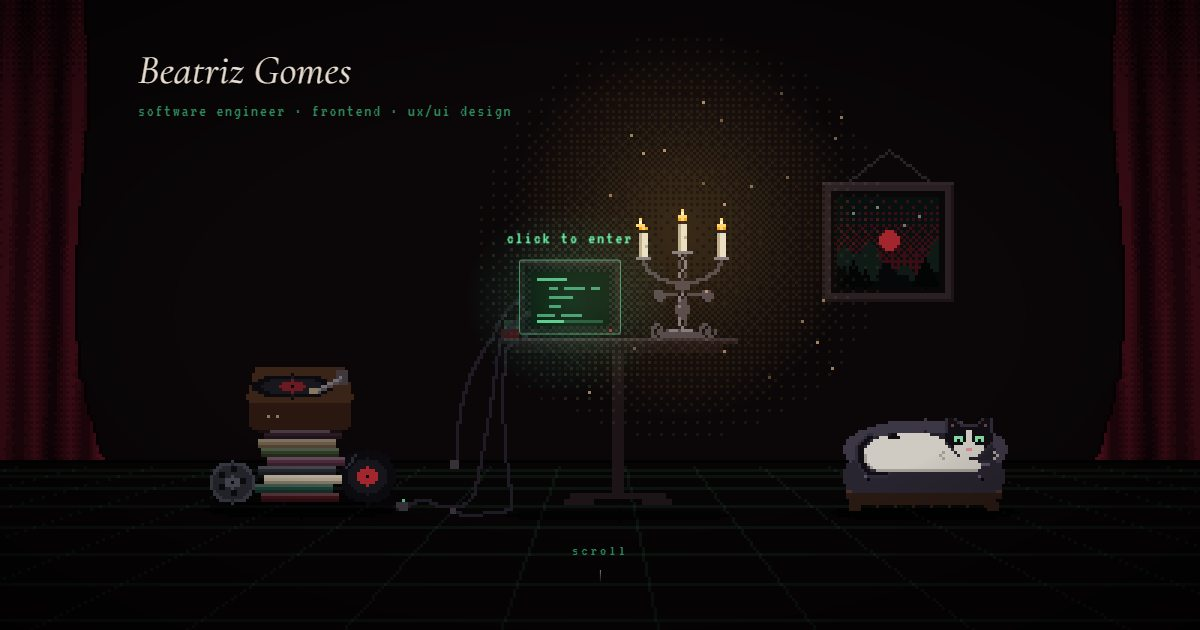
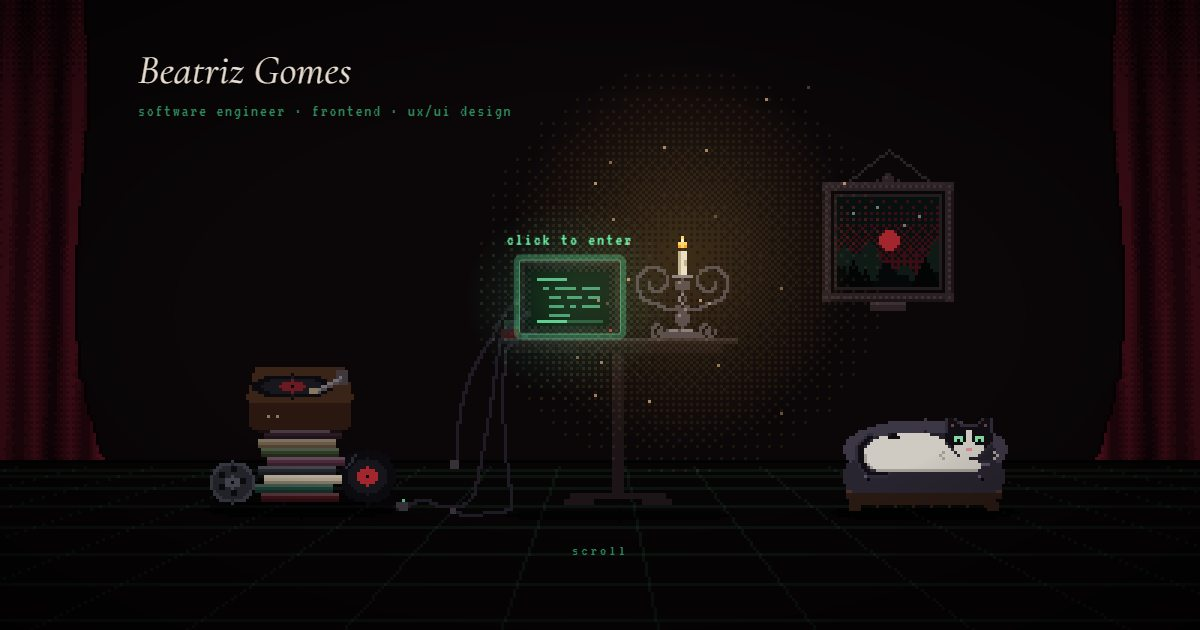
light correction

diff --git a/script.js b/script.js
@@ -162,6 +162,15 @@ function drawRoom() {
     R(x, base - near, 1, near, '#050808');
   }
   pine(178, PY + PH, 9, '#030505'); pine(182, PY + PH, 6, '#030505'); pine(202, PY + PH, 10, '#030505');
+
+  // Victorian touches, kept quiet: same wood tones as the frame (no gold). Beaded moulding, corner rosettes, a small crest and a title plate.
+  const FB = '#3d3033', FD = '#2c2124';
+  for (let x = 171; x <= 208; x += 2) { P(x, 23, FB); P(x, 60, FB); }          // beads along the top and bottom of the frame
+  for (let y = 25; y <= 58; y += 2) { P(169, y, FB); P(210, y, FB); }          // beads down the sides
+  [[168, 22], [209, 22], [168, 59], [209, 59]].forEach(([x, y]) => { R(x, y, 3, 3, FD); P(x + 1, y + 1, FB); });   // corner rosettes
+  R(188, 20, 4, 2, FD); P(189, 19, FD); P(190, 19, FD); P(186, 21, FD); P(193, 21, FD); P(189, 20, FB);          // a little crest on top
+  R(184, 62, 12, 3, FD); R(184, 62, 12, 1, FB);                                // title plate under the frame
+  R(172, 26, 36, 1, '#241b1e'); R(172, 57, 36, 1, '#241b1e'); R(172, 26, 1, 32, '#241b1e'); R(207, 26, 1, 32, '#241b1e');   // a fine inner line around the painting
   rc.restore();
 
   // ---- a small Victorian cat bed, with the cat in it (replaces the armchair) ----
@@ -255,7 +264,7 @@ function drawRoom() {
 
   // light passes
   // light passes: a dithered (stippled) pool of light, like the first version, plus the smooth CSS glow on top
-  light(227, 86, 68, '255,200,90', 0.07);                                // lamp (yellow)
+  light(227, 97, 68, '255,200,90', 0.07);                                // lamp (yellow)
   light(190, 108, 34, '109,255,176', 0.06);                               // screen
 
   // ---- a corner for music and films: stack of sleeves, vintage radio, vinyl, film reel (opens "off-screen") ----
@@ -286,21 +295,26 @@ function drawRoom() {
   P(25, 124, '#85795f'); P(28, 124, '#85795f');                                        // knobs on the front
   rc.restore();
 
-  // ---- candelabra: slender wrought iron, three candles (the flames are animated in render()) ----
+  // ---- candelabra: slender wrought iron, one candle (the flame is animated in render()) ----
   rc.save(); rc.translate(OX - 40, OY);
   const LX = 227, IR = '#4d4448', IRH = '#80767c', WAX = '#e8dcc0', WAXD = '#b8a888';
   R(221, 96, 12, 2, IR); R(223, 95, 8, 1, IRH);                          // foot
   spiral(219, 95, 3, IR); spiral(235, 95, 3, IR);                        // curls at the foot
-  for (let y = 70; y <= 95; y++) { const o = Math.round(1.1 * Math.sin(y * 0.8)); P(LX - o, y, IR); P(LX + o, y, IRH); }   // slender twisted stem
-  ellipse(LX, 88, 2, 3, IR); P(LX - 1, 87, IRH);                         // knops
-  ellipse(LX, 80, 2, 2, IR);
-  curve(LX, 79, 217, 79, 214, 72, IR); curve(LX, 79, 237, 79, 240, 72, IR);     // graceful arms
-  spiral(219, 83, 2, IR); spiral(235, 83, 2, IR); line(221, 83, 225, 83, IR); line(229, 83, 233, 83, IR);
-  R(224, 69, 7, 1, IRH); R(212, 71, 5, 1, IRH); R(238, 71, 5, 1, IRH);   // candle cups
-  R(226, 60, 3, 9, WAX); R(226, 60, 1, 9, WAXD); P(227, 59, '#2a1a14');  // candles + wicks
-  R(213, 63, 3, 8, WAX); R(213, 63, 1, 8, WAXD); P(214, 62, '#2a1a14');
-  R(239, 63, 3, 8, WAX); R(239, 63, 1, 8, WAXD); P(240, 62, '#2a1a14');
-  P(228, 64, WAXD); P(215, 67, WAXD);                                    // a little wax
+  for (let y = 78; y <= 95; y++) { const o = Math.round(1.1 * Math.sin(y * 0.8)); P(LX - o, y, IR); P(LX + o, y, IRH); }   // slender twisted stem (shorter now)
+  ellipse(LX, 80, 2, 2, IR); P(LX - 1, 79, IRH);                         // knop under the cup
+  ellipse(LX, 91, 2, 3, IR); P(LX - 1, 90, IRH);                         // lower knop
+  // two arms that sweep out from the stem and curl inward into a spiral, like a pair of scrolls
+  [-1, 1].forEach(side => {
+    curve(LX + side, 87, LX + side * 5, 89, LX + side * 9, 86, IR);      // leaves the stem and dips outwards
+    const cx = LX + side * 9, cy = 79, R0 = 7;                           // the circle the scroll winds round
+    for (let a = 0; a <= 1; a += 0.004) {
+      const ang = Math.PI / 2 - side * a * Math.PI * 2.5, r = R0 * (1 - 0.75 * a);   // out, up, over and back in
+      P(Math.round(cx + r * Math.cos(ang)), Math.round(cy + r * Math.sin(ang)), IR);
+    }
+  });
+  R(224, 77, 7, 1, IRH);                                                 // the one candle cup
+  R(226, 69, 3, 8, WAX); R(226, 69, 1, 8, WAXD); P(227, 68, '#2a1a14');  // the candle + its wick
+  P(228, 72, WAXD); P(228, 73, WAXD);                                    // a little wax
   rc.restore();
 }
 
@@ -321,7 +335,7 @@ const makeRow = () => {
 const rows = Array.from({ length: 4 }, makeRow);
 const glowScreen = document.getElementById('glowScreen');
 const glowLamp = document.querySelector('.glow-lamp');
-const WICKS = [[227, 81], [214, 84], [240, 84]];   // where the three candle flames sit (x, wick y)
+const WICKS = [[227, 90]];   // where the candle flame sits (x, wick y)
 let frame = 0;
 
 // dust motes drifting in the candlelight (the speckles from the first version)
@@ -402,6 +416,7 @@ const SECTIONS = {
       '<h2>Frontend developer driven by human-centred design.</h2>',
       "<p>I'm Beatriz, a frontend developer and UX/UI designer. I'm interested in the intersection of technology, UX and design, and in creating digital experiences that are both <span class=hl>functional and human</span>.</p>",
       "<p>My master's thesis focused on designing and studying an <span class=hl>explainable, AI-assisted</span> application for breast cancer diagnosis. I also have a weakness for immersive, creative web experiences, and I'm comfortable working with AI-powered engineering tools.</p>",
+      "<p>I love creating. I'm a <span class=hl>painter</span>, and that side of art and creation is present in everything I do.</p>",
       '<ul><li><b>MSc, Computer Science and Engineering</b>Instituto Superior Técnico · 2023–2025</li>' +
       '<li><b>BSc, Informatics Engineering</b>Faculdade de Ciências de Lisboa · 2019–2023</li>' +
       '<li><b>Minor, Entrepreneurship and Innovation</b>Instituto Superior Técnico · 2023–2024</li>' +
@@ -421,12 +436,13 @@ const SECTIONS = {
       '<li><b>Teacher</b><span class=hl>Happy Code</span> · Nov 2022 – Jul 2023. Taught programming and robotics to children.</li></ul>',
     ],
   },
-  design: {
-    title: 'design',
+  skills: {
+    title: 'skills',
     lines: [
-      '<span class="eyebrow">03 — design &amp; skills</span>',
-      '<h2>UX/UI, from research to polish.</h2>',
-      "<p>I studied UX and interface design throughout my bachelor's and master's degrees, and I use those best practices to deliver end-to-end visual solutions independently, and then build them.</p>",
+      '<span class="eyebrow">03 — skills</span>',
+      '<h2>How I work, and what I work with.</h2>',
+      "<p>I'm <span class=hl>curious</span>, <span class=hl>attentive to my colleagues' feedback</span> and <span class=hl>communicative</span>. I value <span class=hl>open and honest communication</span>, and I adapt easily to new teams and contexts.</p>",
+      "<p>I studied UX and interface design throughout my bachelor's and master's degrees, and I use those best practices to deliver end-to-end visual solutions independently, and then build them. My work experience and my minor taught me the steps to create a product adapted to the client's needs, through <span class=hl>refined iterations</span>.</p>",
       '<ul><li><b>Design</b>Figma, UX best practices, interface design</li>' +
       '<li><b>Frontend</b>JavaScript, TypeScript, React, Angular, D3.js</li>' +
       '<li><b>Also</b>Java, Python, MySQL, REST APIs, AWS</li>' +

diff --git a/style.css b/style.css
@@ -39,7 +39,7 @@ body { background: var(--bg); color: var(--text); font-family: var(--sans); }
 
 .glow-lamp {
   /* candlelight: the flicker is driven from script.js */
-  background: radial-gradient(ellipse 20% 40% at 56.75% 37%, rgba(255, 190, 80, .15), rgba(255, 160, 50, .04) 55%, transparent 72%);
+  background: radial-gradient(ellipse 20% 40% at 56.75% 41%, rgba(255, 190, 80, .15), rgba(255, 160, 50, .04) 55%, transparent 72%);
   mix-blend-mode: screen;
 }
 .glow-screen {
@@ -76,7 +76,7 @@ body { background: var(--bg); color: var(--text); font-family: var(--sans); }
 /* ---------- Hotspots (% of the 320x180 scene) ---------- */
 .hotspot { position: absolute; background: transparent; border: 0; cursor: pointer; }
 .hs-monitor { left: 43.25%; top: 41.8%; width: 8.5%; height: 11.1%; }
-.hs-picture { left: 68.5%;   top: 30.2%; width: 11%;  height: 17.8%; }
+.hs-picture { left: 68.5%;   top: 28.9%; width: 11%;  height: 20.4%; }
 .hs-music   { left: 17.25%; top: 58.2%; width: 15.5%;  height: 20.4%; }
 
 .hotspot::after {

diff --git a/index.html b/index.html
@@ -16,7 +16,7 @@
   <meta property="og:image" content="https://beatrizvigomes.github.io/portfolio/images/preview.jpg">
   <meta property="og:image:width" content="1200">
   <meta property="og:image:height" content="630">
-  <meta property="og:image:alt" content="A dark Victorian room with a glowing computer screen, a candelabra and an armchair.">
+  <meta property="og:image:alt" content="A dark Victorian room with a glowing computer screen, a candelabra and a cat curled up in a small bed.">
   <meta name="twitter:card" content="summary_large_image">
 
   <!-- Browser-tab icon and the icon iPhones use when the page is saved to the home screen -->
